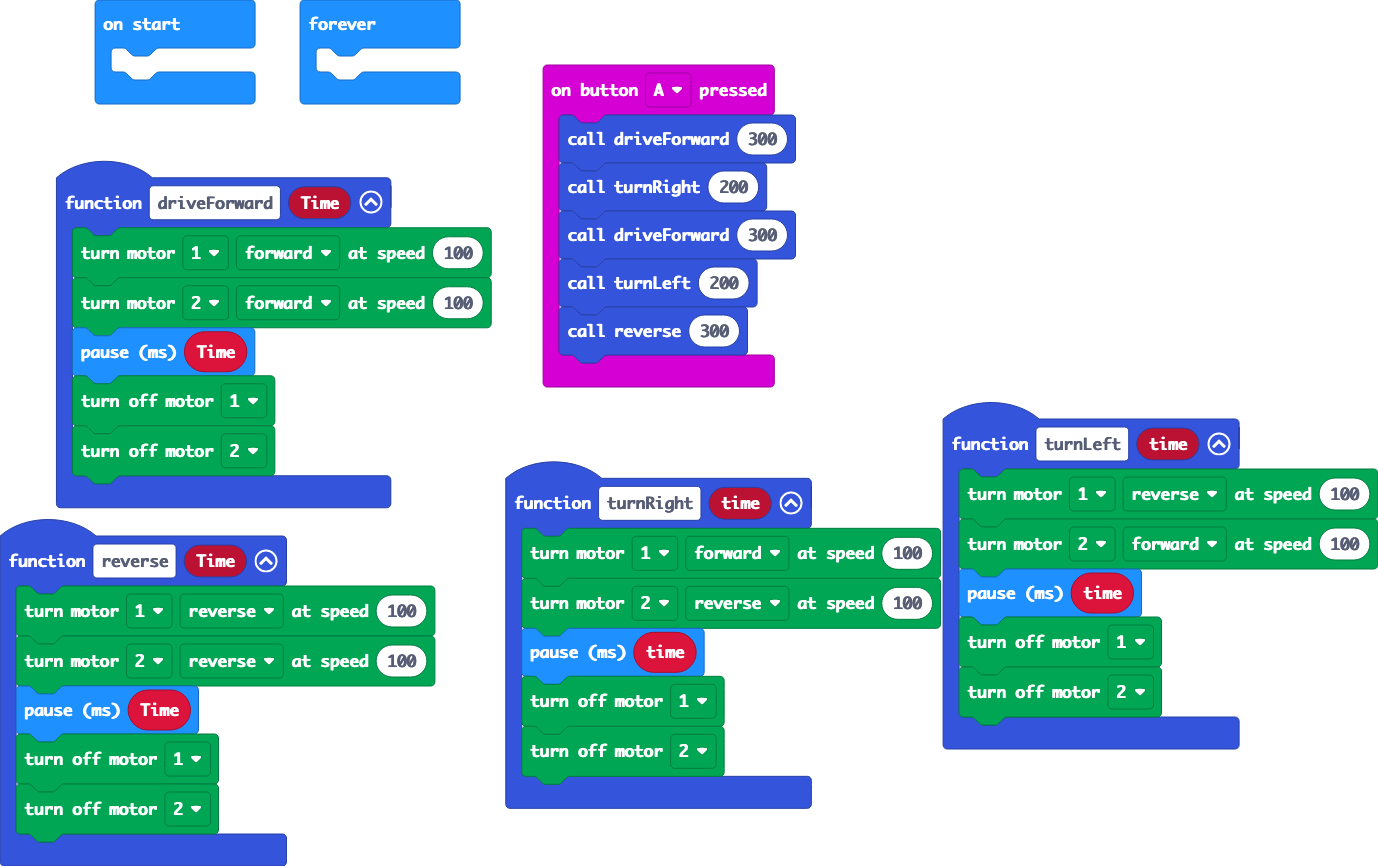
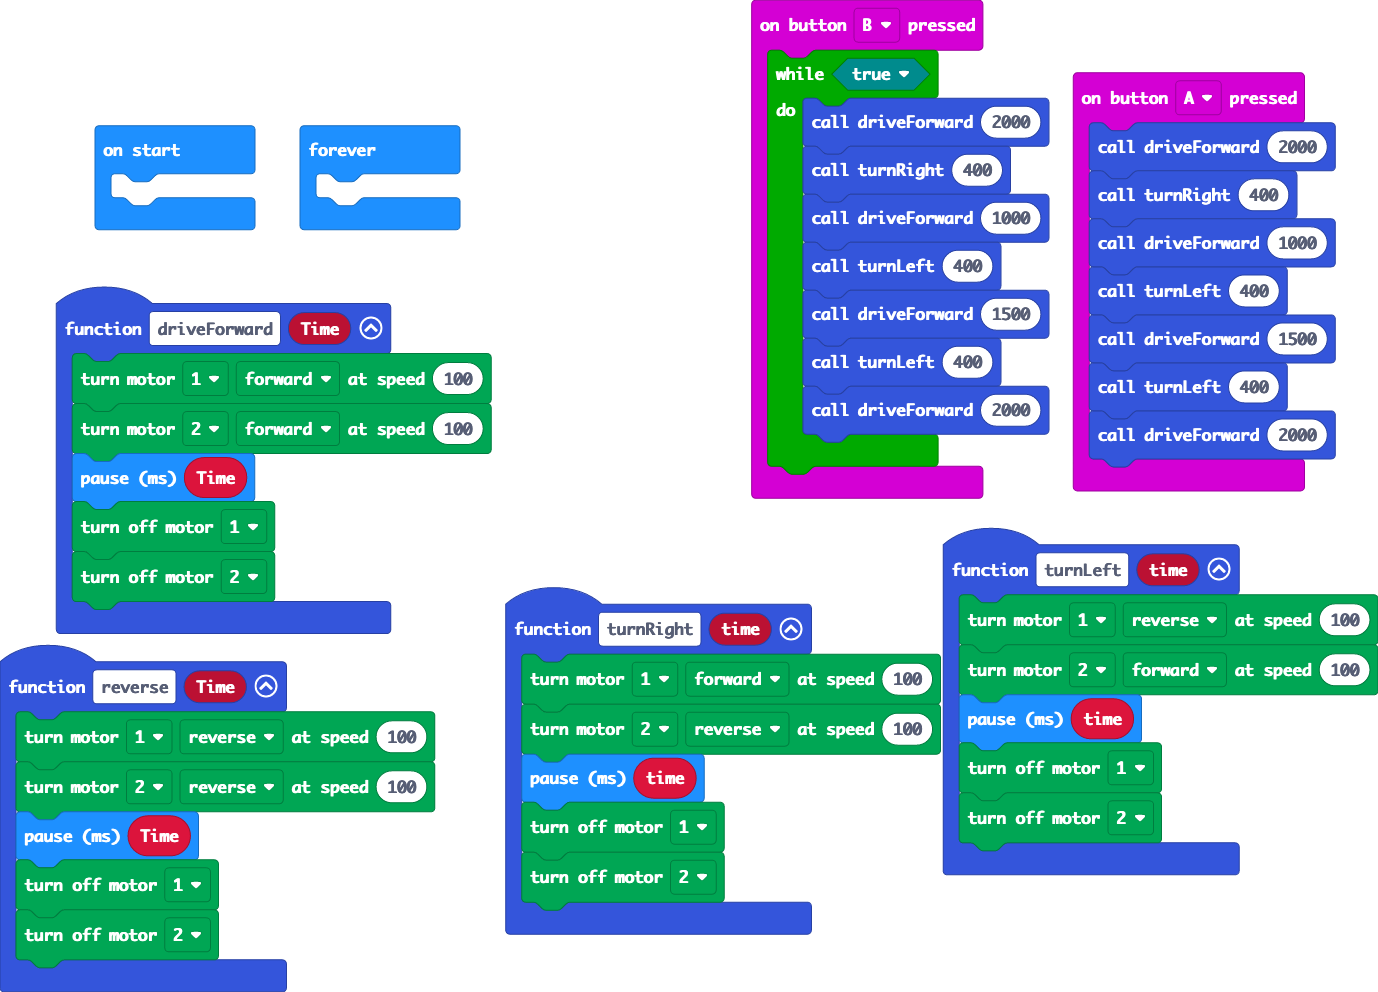
Made use of function. Endless run for algorithm on button B

diff --git a/main.ts b/main.ts
@@ -6,11 +6,13 @@ function turnLeft (time: number) {
     kitronik_klip_motor.motorOff(kitronik_klip_motor.Motors.Motor2)
 }
 input.onButtonPressed(Button.A, function () {
-    driveForward(300)
-    turnRight(200)
-    driveForward(300)
-    turnLeft(200)
-    reverse(300)
+    driveForward(2000)
+    turnRight(400)
+    driveForward(1000)
+    turnLeft(400)
+    driveForward(1500)
+    turnLeft(400)
+    driveForward(2000)
 })
 function reverse (Time: number) {
     kitronik_klip_motor.motorOn(kitronik_klip_motor.Motors.Motor1, kitronik_klip_motor.MotorDirection.Reverse, 100)
@@ -26,6 +28,17 @@ function turnRight (time: number) {
     kitronik_klip_motor.motorOff(kitronik_klip_motor.Motors.Motor1)
     kitronik_klip_motor.motorOff(kitronik_klip_motor.Motors.Motor2)
 }
+input.onButtonPressed(Button.B, function () {
+    while (true) {
+        driveForward(2000)
+        turnRight(400)
+        driveForward(1000)
+        turnLeft(400)
+        driveForward(1500)
+        turnLeft(400)
+        driveForward(2000)
+    }
+})
 function driveForward (Time: number) {
     kitronik_klip_motor.motorOn(kitronik_klip_motor.Motors.Motor1, kitronik_klip_motor.MotorDirection.Forward, 100)
     kitronik_klip_motor.motorOn(kitronik_klip_motor.Motors.Motor2, kitronik_klip_motor.MotorDirection.Forward, 100)
